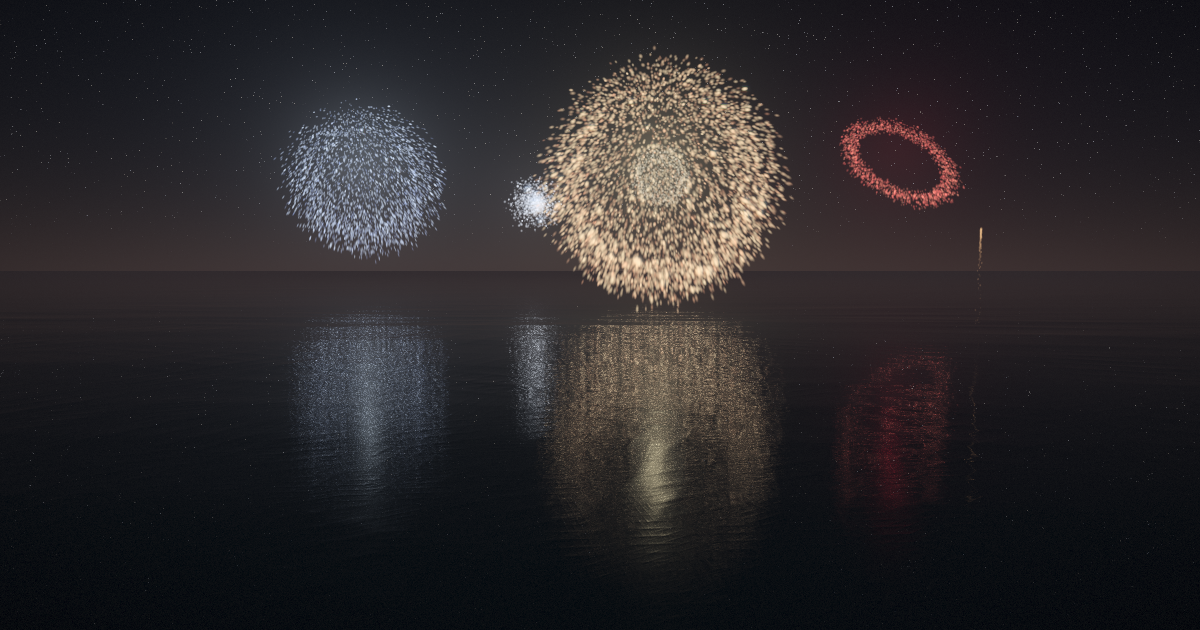
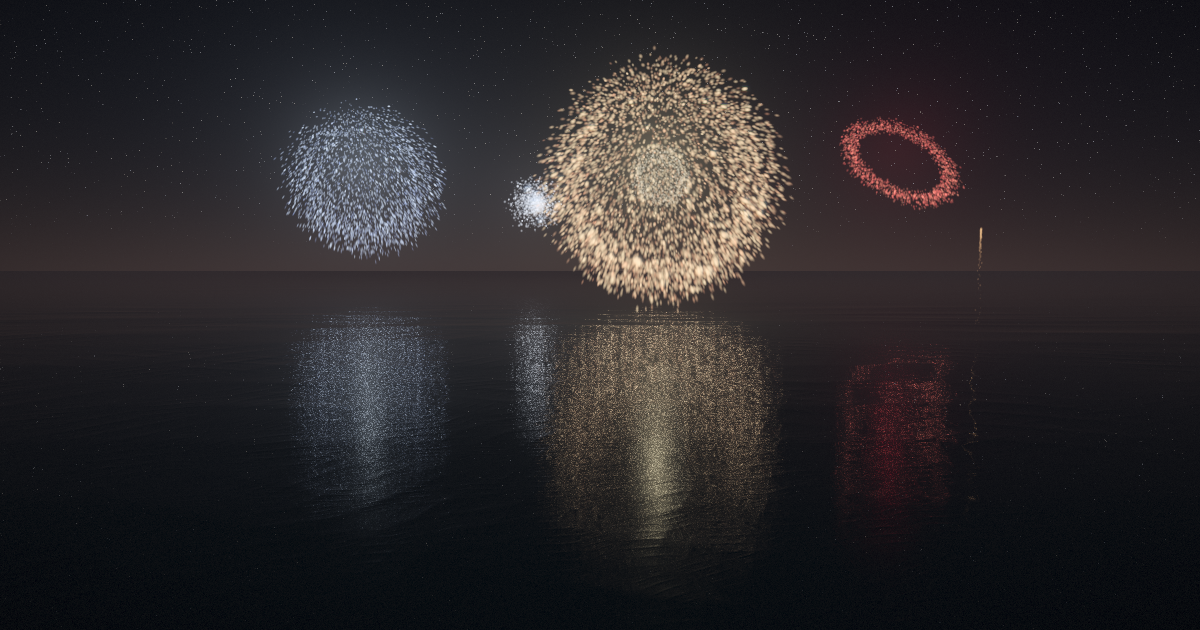
feat: add a customizable moon and a chop control for the sea
Moon (look.moon, moonSize, moonHeight, moonAngle, moonPhase): a phased
disc shaded as a sphere with limb darkening and a soft edge, a Lorentzian
halo in the haze, and a slight washing-out of the stars. It reflects
analytically through the wave normals with the rest of the sky, and lays
its own GGX glitter path as a directional light, plus a little scattered
moonlight in the water body.

Chop (look.chop): a second sea control on top of `waves`. It steepens and
sharpens the short octaves, widens their directional fan, deepens the wave
groups, raises the roughness floor, and bends the crests with a slow
phase modulation — all differentiated so the slope stays the gradient of
the height.

`defaultShell` now merges a partial `look` over the defaults so presets
and the random generator only list what they set; `parseShell` clamps the
new fields. Sliders added to the builder (Chop in Camera, a new Moon
section). SkyParams mirrored in renderer, verify (new --chop/--moon
flags) and render-og; OG plate re-baked. Tests and docs updated.

Claude-Session: https://claude.ai/code/session_012A5bxPjMArH5ruyzp17sQD

Changed region(s): [[0.4317, 0.5127, 0.6475, 0.8746], [0.2467, 0.5127, 0.37, 0.754], [0.7092, 0.6032, 0.8017, 0.7238]]

diff --git a/src/builder/spec.ts b/src/builder/spec.ts
@@ -146,10 +146,26 @@ export interface LookSpec {
   exposure: number;
   /** 0..1 — how much the water mirrors the show. 0 disables the mirror pass. */
   reflection: number;
-  /** 0..1 — sea state. 0 is a still pond, 1 is a choppy swell. */
+  /** 0..1 — sea state. 0 is a still pond, 1 is a heavy swell. */
   waves: number;
+  /**
+   * 0..1 — how confused the sea is on top of that swell: steeper, sharper,
+   * more scattered short waves with bent crests. 0 is a steady breeze, 1 a
+   * squall.
+   */
+  chop: number;
   /** 0..1 — haze/smoke sitting over the water. */
   haze: number;
+  /** 0..1 — brightness of the moon. 0 leaves it out of the sky. */
+  moon: number;
+  /** 0..1 — apparent size of the moon, from the real half degree to a cinematic four. */
+  moonSize: number;
+  /** 0..1 — elevation of the moon above the horizon. */
+  moonHeight: number;
+  /** Degrees, -180..180 — compass bearing of the moon; 0 is straight ahead of the default camera. */
+  moonAngle: number;
+  /** 0..1 — lunar phase. 0.5 is full, 0 and 1 are new. */
+  moonPhase: number;
 }
 
 export interface AudioSpec {
@@ -206,7 +222,13 @@ export function defaultLayer(overrides: Partial<BurstLayer> = {}): BurstLayer {
   };
 }
 
-export function defaultShell(overrides: Partial<ShellSpec> = {}): ShellSpec {
+/** `defaultShell` overrides. `look` merges field by field, the rest replace. */
+export type ShellOverrides = Omit<Partial<ShellSpec>, "look"> & {
+  look?: Partial<LookSpec>;
+};
+
+export function defaultShell(overrides: ShellOverrides = {}): ShellSpec {
+  const { look, ...rest } = overrides;
   return {
     id: makeId("shell"),
     name: "Untitled shell",
@@ -220,9 +242,22 @@ export function defaultShell(overrides: Partial<ShellSpec> = {}): ShellSpec {
     },
     layers: [defaultLayer()],
     physics: { gravity: 9.4, drag: 0.35, wind: 0.6, turbulence: 0.35 },
-    look: { bloom: 1, exposure: 1, reflection: 0.55, waves: 0.45, haze: 0.4 },
+    look: {
+      bloom: 1,
+      exposure: 1,
+      reflection: 0.55,
+      waves: 0.45,
+      chop: 0.35,
+      haze: 0.4,
+      moon: 0.5,
+      moonSize: 0.35,
+      moonHeight: 0.45,
+      moonAngle: -48,
+      moonPhase: 0.72,
+      ...look,
+    },
     audio: { enabled: true, boom: 0.7, crackle: 0.5 },
-    ...overrides,
+    ...rest,
   };
 }
 
@@ -336,7 +371,13 @@ export function parseShell(input: unknown): ShellSpec {
       exposure: clampNumber(look.exposure, 0.2, 2.5, base.look.exposure),
       reflection: clampNumber(look.reflection, 0, 1, base.look.reflection),
       waves: clampNumber(look.waves, 0, 1, base.look.waves),
+      chop: clampNumber(look.chop, 0, 1, base.look.chop),
       haze: clampNumber(look.haze, 0, 1, base.look.haze),
+      moon: clampNumber(look.moon, 0, 1, base.look.moon),
+      moonSize: clampNumber(look.moonSize, 0, 1, base.look.moonSize),
+      moonHeight: clampNumber(look.moonHeight, 0, 1, base.look.moonHeight),
+      moonAngle: clampNumber(look.moonAngle, -180, 180, base.look.moonAngle),
+      moonPhase: clampNumber(look.moonPhase, 0, 1, base.look.moonPhase),
     },
     audio: {
       enabled:

diff --git a/src/builder/spec.test.ts b/src/builder/spec.test.ts
@@ -38,7 +38,7 @@ describe("parseShell", () => {
       name: "x".repeat(500),
       launch: { height: 1e9, tilt: -1e9, flash: 5 },
       physics: { gravity: -100, turbulence: Number.NaN },
-      look: { exposure: 0, bloom: 99, waves: 4 },
+      look: { exposure: 0, bloom: 99, waves: 4, chop: -1, moonAngle: 720 },
       layers: [{ count: 1e9, life: -3, size: 0, drag: "nope", pattern: "wat" }],
     });
 
@@ -52,6 +52,8 @@ describe("parseShell", () => {
     expect(parsed.look.exposure).toBeGreaterThanOrEqual(0.2);
     expect(parsed.look.bloom).toBe(2);
     expect(parsed.look.waves).toBe(1);
+    expect(parsed.look.chop).toBe(0);
+    expect(parsed.look.moonAngle).toBe(180);
     expect(parsed.layers[0].count).toBeLessThanOrEqual(20000);
     expect(parsed.layers[0].life).toBeGreaterThanOrEqual(0.15);
     // An unknown pattern falls back rather than reaching the GPU as `undefined`.
@@ -66,6 +68,30 @@ describe("parseShell", () => {
     });
     expect(parsed.look.waves).toBe(defaultShell().look.waves);
     expect(parsed.look.reflection).toBe(0.6);
+  });
+
+  test("a shell saved before the moon and the chop still loads", () => {
+    // Same story for the later fields: an old save gets the default moon and
+    // sea confusion rather than a moonless, glassy, or NaN-driven sky.
+    const parsed = parseShell({
+      look: { bloom: 1, exposure: 1, reflection: 0.6, waves: 0.4, haze: 0.4 },
+    });
+    const base = defaultShell().look;
+    expect(parsed.look.chop).toBe(base.chop);
+    expect(parsed.look.moon).toBe(base.moon);
+    expect(parsed.look.moonSize).toBe(base.moonSize);
+    expect(parsed.look.moonHeight).toBe(base.moonHeight);
+    expect(parsed.look.moonAngle).toBe(base.moonAngle);
+    expect(parsed.look.moonPhase).toBe(base.moonPhase);
+  });
+
+  test("defaultShell merges a partial look over the defaults", () => {
+    // Presets and the random generator hand over only the look fields they
+    // care about; the rest have to come from the defaults, not go missing.
+    const shell = defaultShell({ look: { waves: 0.9 } });
+    expect(shell.look.waves).toBe(0.9);
+    expect(shell.look.moon).toBe(defaultShell().look.moon);
+    expect(shell.look.chop).toBe(defaultShell().look.chop);
   });
 
   test("keeps at most four layers", () => {

diff --git a/src/builder/renderer.ts b/src/builder/renderer.ts
@@ -40,6 +40,7 @@ import {
   type BurstLayer,
   COLOR_MODE_IDS,
   hexToLinear,
+  type LookSpec,
   PATTERN_FLASH,
   PATTERN_IDS,
   PATTERN_TRAIL,
@@ -102,6 +103,29 @@ function packWaterLights(lights: readonly WaterLight[]) {
 /** Angular size of one pixel for a vertical field of view over `height` px. */
 function pixelAngleFor(height: number): number {
   return (2 * Math.tan((FOV * Math.PI) / 360)) / Math.max(1, height);
+}
+
+/**
+ * The moon's share of the sky uniform, from the look settings. Height maps
+ * to an elevation between just clear of the horizon and high overhead; the
+ * bearing is a compass angle with 0 straight ahead of the default camera,
+ * which looks down -Z. Size runs from the real half-degree disc to a
+ * cinematic four degrees.
+ */
+function moonUniform(look: LookSpec) {
+  const elevation = ((4 + 66 * look.moonHeight) * Math.PI) / 180;
+  const bearing = (look.moonAngle * Math.PI) / 180;
+  const flat = Math.cos(elevation);
+  return {
+    moonRadius: ((0.26 + 1.74 * look.moonSize) * Math.PI) / 180,
+    moonPhase: look.moonPhase,
+    moonDir: [
+      Math.sin(bearing) * flat,
+      Math.sin(elevation),
+      -Math.cos(bearing) * flat,
+    ] as [number, number, number],
+    moon: look.moon,
+  };
 }
 
 function sizeOf(size: readonly [number, number]): [number, number] {
@@ -325,9 +349,8 @@ async function bootFireworks(
         glowColor: [1, 0.7, 0.45],
         waterY: WATER_Y,
         pixelAngle: pixelAngleFor(view.size[1]),
-        pad0: 0,
-        pad1: 0,
-        pad2: 0,
+        chop: options.spec.look.chop,
+        ...moonUniform(options.spec.look),
         ...packWaterLights([]),
       },
       mirror,
@@ -916,9 +939,8 @@ async function bootFireworks(
         glowColor: glowTint,
         waterY: WATER_Y,
         pixelAngle: pixelAngleFor(scene.size[1]),
-        pad0: 0,
-        pad1: 0,
-        pad2: 0,
+        chop: spec.look.chop,
+        ...moonUniform(spec.look),
         ...packWaterLights(waterLights),
       },
     });

diff --git a/src/components/builder/FireworksBuilder.tsx b/src/components/builder/FireworksBuilder.tsx
@@ -765,12 +765,68 @@ export default function FireworksBuilder() {
           onChange={(waves) => patch({ look: { ...spec.look, waves } })}
         />
         <Slider
+          label="Chop"
+          value={spec.look.chop}
+          min={0}
+          max={1}
+          step={0.01}
+          onChange={(chop) => patch({ look: { ...spec.look, chop } })}
+        />
+        <Slider
           label="Haze"
           value={spec.look.haze}
           min={0}
           max={1}
           step={0.01}
           onChange={(haze) => patch({ look: { ...spec.look, haze } })}
+        />
+      </Section>
+
+      <div className="bg-seam h-px" />
+
+      <Section title="Moon">
+        <Slider
+          label="Moonlight"
+          value={spec.look.moon}
+          min={0}
+          max={1}
+          step={0.01}
+          onChange={(moon) => patch({ look: { ...spec.look, moon } })}
+        />
+        <Slider
+          label="Size"
+          value={spec.look.moonSize}
+          min={0}
+          max={1}
+          step={0.01}
+          onChange={(moonSize) => patch({ look: { ...spec.look, moonSize } })}
+        />
+        <Slider
+          label="Height"
+          value={spec.look.moonHeight}
+          min={0}
+          max={1}
+          step={0.01}
+          onChange={(moonHeight) =>
+            patch({ look: { ...spec.look, moonHeight } })
+          }
+        />
+        <Slider
+          label="Bearing"
+          value={spec.look.moonAngle}
+          min={-180}
+          max={180}
+          step={1}
+          unit="°"
+          onChange={(moonAngle) => patch({ look: { ...spec.look, moonAngle } })}
+        />
+        <Slider
+          label="Phase"
+          value={spec.look.moonPhase}
+          min={0}
+          max={1}
+          step={0.01}
+          onChange={(moonPhase) => patch({ look: { ...spec.look, moonPhase } })}
         />
       </Section>
 

diff --git a/src/builder/presets.ts b/src/builder/presets.ts
@@ -4,7 +4,12 @@
  * the renderer.
  */
 
-import { defaultLayer, defaultShell, type ShellSpec } from "./spec";
+import {
+  defaultLayer,
+  defaultShell,
+  type ShellOverrides,
+  type ShellSpec,
+} from "./spec";
 
 /**
  * Layer ids are derived from the preset id rather than generated, so the same
@@ -15,7 +20,7 @@ import { defaultLayer, defaultShell, type ShellSpec } from "./spec";
 function preset(
   id: string,
   name: string,
-  spec: Omit<Partial<ShellSpec>, "id" | "name">,
+  spec: Omit<ShellOverrides, "id" | "name">,
 ): ShellSpec {
   const shell = defaultShell({ ...spec, id, name });
   return {

diff --git a/src/builder/random.ts b/src/builder/random.ts
@@ -171,6 +171,7 @@ export function randomShell(): ShellSpec {
       exposure: 1,
       reflection: range(0.4, 0.75),
       waves: range(0.2, 0.75),
+      chop: range(0.1, 0.7),
       haze: range(0.25, 0.6),
     },
     audio: { enabled: true, boom: range(0.5, 0.85), crackle: range(0.3, 0.7) },

diff --git a/AGENTS.md b/AGENTS.md
@@ -22,10 +22,17 @@ padding field, or the values land at the wrong offsets. `scripts/verify-pipeline
 `SkyParams` has to land in all four or the shader silently reads zero. `SkyParams` ends in
 two `array<vec4f, 4>` fields (`lights`, `lightColors`); the JS side hands them over as
 four-element arrays of four-element arrays, and `LIGHTS` in `sky.wgsl` must stay equal to
-`WATER_LIGHTS` in the renderer.
+`WATER_LIGHTS` in the renderer. The moon travels as `moonDir` (unit vector, built by
+`moonUniform()` in the renderer from the look's height and bearing), `moonRadius`
+(radians), `moonPhase`, and `moon` (brightness; 0 skips it entirely).
 
 `bun run verify -- --light 0` turns the point lights off, which isolates the mirror
-target's contribution to the water; `--waves` and `--reflection` cover the other knobs.
+target's contribution to the water; `--waves`, `--chop`, `--moon`, and `--reflection`
+cover the other knobs (`--moon 1 --light 0 --reflection 0` is the moon on its own).
+
+`LookSpec` fields are added in three places — the interface, `defaultShell`, and the
+clamp in `parseShell` — and `defaultShell` merges a *partial* `look` over the defaults,
+so presets and the random generator never need to list every field.
 
 # The water reflects a pass, not a trick
 
@@ -43,8 +50,11 @@ projected with `viewProj` — the same camera the mirror pass drew with. That is
 done again with the normal tilted by the roughness, so its size and direction on screen
 are the real ones rather than a constant.
 
-The wave maths lives in `water.wgsl`, a pure module with no bindings. Several things there
-are load-bearing and look like tuning: octaves finer than the pixel footprint are faded
+The wave maths lives in `water.wgsl`, a pure module with no bindings. `oceanWave` takes
+two sea controls: `sea` (from the `waves` look) scales the whole spectrum, `chop` steepens
+and sharpens the short octaves, widens their directional fan, deepens the wave groups, and
+bends the crests — every one of those terms is differentiated so the slope stays the true
+gradient of the height. Several things there are load-bearing and look like tuning: octaves finer than the pixel footprint are faded
 out and their slope energy handed back as `variance`, which `seaAlpha` turns into GGX
 roughness on top of a Cox–Munk floor (drop the fade and the horizon becomes a shimmering
 noise band; drop the floor and near water has no sparkle at all); every octave is cut into

diff --git a/README.md b/README.md
@@ -91,7 +91,8 @@ also the save format. It has four parts:
   time, colours, and its own drag/gravity/twinkle/crackle/tail. A layer's `delay` and
   `startRadius` are what make pistils, secondary breaks, and crossette splits.
 - **Night air** — gravity, air drag, wind, turbulence. Shared by every layer.
-- **Camera and sound** — bloom, exposure, the water mirror, the sea state, haze, and the
+- **Camera, moon, and sound** — bloom, exposure, the water mirror, the sea state and
+  chop, haze, the moon (brightness, size, height, bearing, phase), and the
   synthesized report and crackle.
 
 ## How it runs
@@ -122,7 +123,10 @@ somewhere and kinematics for a dozen objects is free. Everything else is GPU-sid
    turns the smooth lobe into the individual sparkles a sea throws, and a GGX specular
    from each of the last four breaks as point lights, which is what lays the long
    shimmering path across the water. The breaks also light the haze around them, and
-   that halo reflects too.
+   that halo reflects too. A moon — brightness, size, height, bearing, and phase all
+   settable — is shaded as the sphere it is, hangs in the haze with its own halo, and
+   lays a silver path of its own; the **Chop** setting turns a steady swell into a
+   confused one, with steeper, sharper, more scattered short waves and snaking crests.
 5. **Draw** — the same stars again, this time above the water, additively into the HDR
    target.
 6. **Composite** — bright pass, separable blur, then a hue-preserving tonemap
